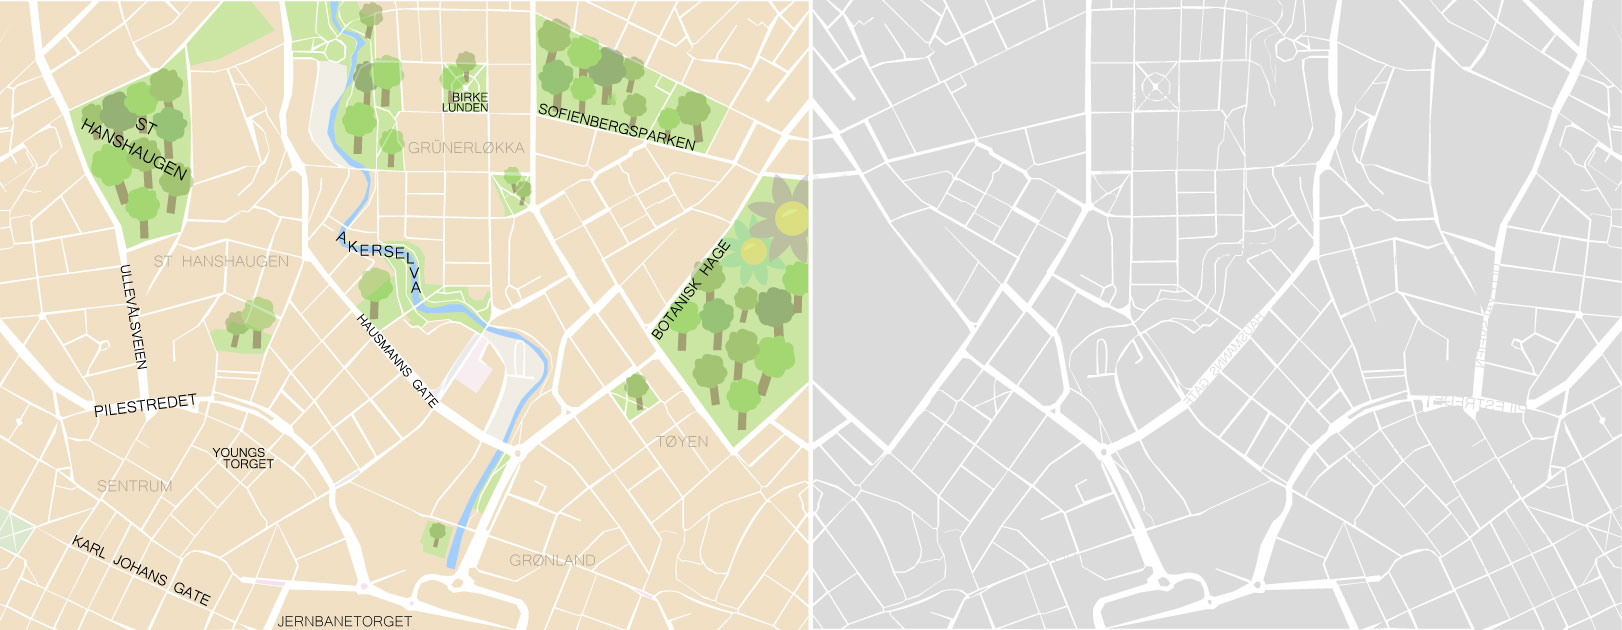
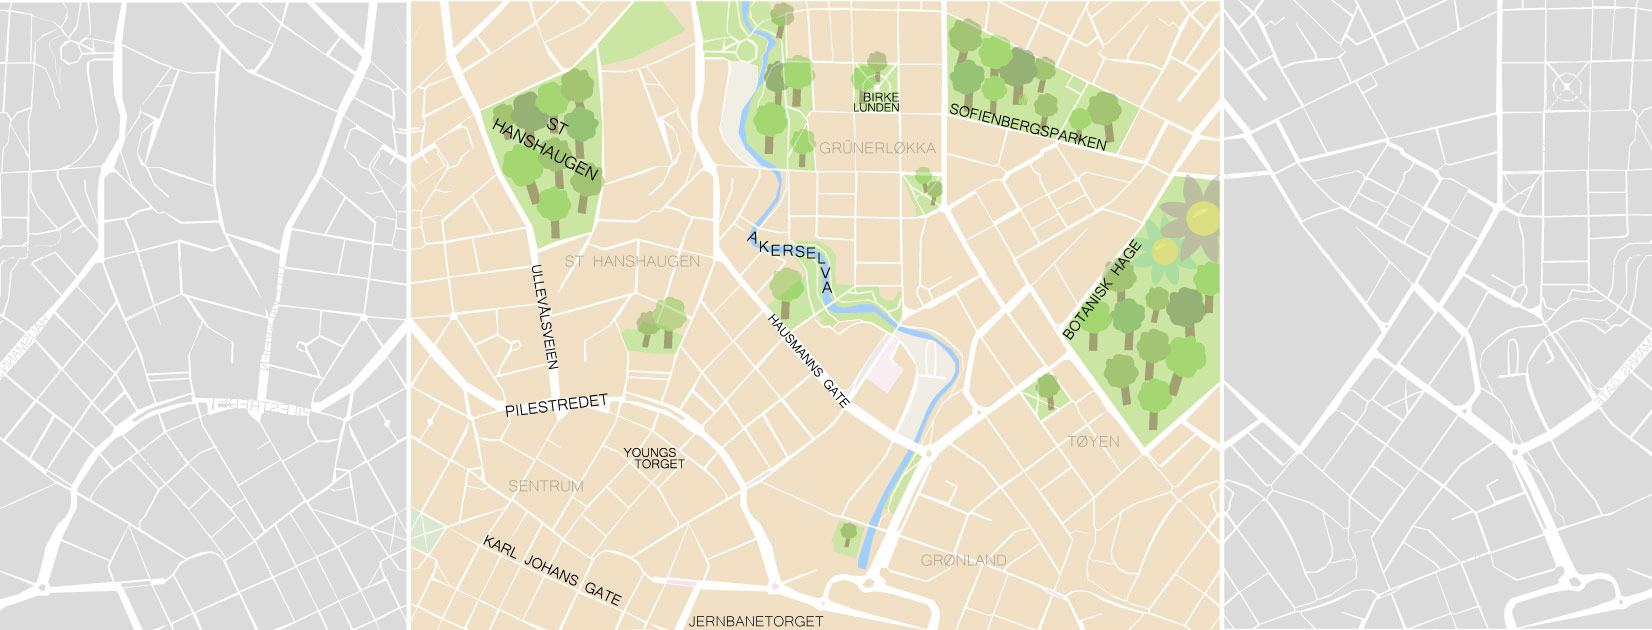
kartsida med ny kartbild

diff --git a/Template/css/custom.css b/Template/css/custom.css
@@ -53,9 +53,7 @@ body {
 .carousel-control {
     display: none;
 }
-#matsErScrub {
-    background-color: red;
-}
+
 
 /* Footer customization */
 
@@ -168,6 +166,8 @@ body {
     margin-bottom: 30px;
 }
 
+
+
 /*Map Page*/
 
 @media screen and (max-width: 991px) {
@@ -177,16 +177,25 @@ body {
         display: block;
         text-align: center;
     }
+
+    #scrollRight{
+        display: inline;
+    }
 }
 @media screen and (min-width: 992px) {
     #infoBar {
         min-height: 10%;
-        max-height: 650px;
+        max-height: 630px;
         overflow-y: auto;
         padding: 2%;
         left: 0;
         margin-top: 0;
         position: absolute;
+        width: 25%;
+    }
+    
+     #scrollRight{
+        display: none; 
     }
 }
 
@@ -195,6 +204,7 @@ body {
     background-color: lightgray;
     z-index: 10;
 }
+
 .box {
     width: 24px;
     height: 24px;
@@ -206,8 +216,7 @@ body {
 }
 
 #boxContainer{
-   left: -345px; 
-   top: 5px;
+   left: 70px; 
     position: absolute;
 }
 #boxContainer>* {
@@ -219,10 +228,11 @@ body {
     padding: 0;
     margin-bottom: 114px;
     overflow-x: scroll;
+    
 }
 #map {
-    min-width: 640px;
-    width: 105%;
+    max-width: 2000px;
+    width: 1650px;
     height: 630px;
     background-image:url(../pic/map.jpg);
     background-repeat: no-repeat;
@@ -433,12 +443,12 @@ body {
     left: 765px;
 }
 #m {
-    top: 495px;
-    left: 660px;
+    top: 500px;
+    left: 650px;
 }
 #n {
-    top: 510px;
-    left: 510px;
+    top: 520px;
+    left: 500px;
 }
 #o {
     top: 455px;

diff --git a/Template/map.php b/Template/map.php
@@ -19,6 +19,7 @@
 
         <!-- JavaScript / Jquery -->
         <script type="text/javascript">
+                    
             var currentZoom = 1.0;
 
             // Zooms in on map
@@ -63,6 +64,13 @@
                         $('.category' + (i + 1)).hide();
                 }
             }
+            
+            function scrollRight(){
+                        $('#mapContent').scrollLeft('600');
+      
+                
+            }
+            
         </script>
 
 </head>
@@ -99,7 +107,7 @@
 
                     <!-- Reset zoom button -->
                     <a id="zoomNormal" href="#" onclick="zoomReset()">
-                        <button type="button" class="btn"> Reset </button>
+                        <button type="button" class="btn"> - </button>
                     </a>
 
                     <!-- Category button -->
@@ -167,12 +175,18 @@
             <div id="infoBar">
                 <!-- Search box HTML -->
                 <br />
-                <form method="get">
+                <form style="display: inline;" method="get">
                     <label>
                         <input type="text" name="keywords" class="form-control" autocomplete="off">
-                    </label>
+                    </label><br>
                     <input type="submit" value="<?php echo $lang['MENU_SUBMIT']; ?>" class="btn btn-default">
                 </form>
+                
+                <form style="display: inline;" method="get">
+                    <input type="submit" name="reset" value="<?php echo $lang['MENU_RESET']; ?>" class="btn btn-default">
+                </form>
+                
+                    <button id="scrollRight" onclick="scrollRight()" class="btn btn-default"> Center map on mobile</button>
                 <br/>
 
                 <!-- Content Wrapper / Div with information about boxes. -->

diff --git a/Template/events/search_function.php b/Template/events/search_function.php
@@ -22,6 +22,9 @@
     <?php 
         $db = new mysqli('localhost', 'root', 'root', 'campusfjerdingen', 8889);
 
+        if(isset($_GET['reset'])){
+        }
+
         if(isset($_GET['keywords'])){
     
         $keywords = $db->escape_string($_GET['keywords']);
@@ -29,6 +32,7 @@
         SELECT *
         FROM location
         WHERE name LIKE '%{$keywords}%' OR category LIKE '%{$keywords}%'");  
+
     ?>
 
     <!-- Echoes number of results -->

diff --git a/Template/languages/lang.no.php b/Template/languages/lang.no.php
@@ -15,6 +15,7 @@ $lang['MENU_EVENTS'] = 'Eventer';
 $lang['MENU_CAMPUS'] = 'Campus';
 $lang['MENU_CONTACT'] = 'Kontakt';
 $lang['MENU_LANGUAGE'] = 'Språk';
+$lang['MENU_RESET'] = 'Återställ';
 
 // Homepage
 $lang['HOMEPAGE_FIRST_TITLE'] = 'Kart';

diff --git a/Template/languages/lang.en.php b/Template/languages/lang.en.php
@@ -17,6 +17,7 @@ $lang['MENU_CONTACT'] = 'Contact';
 $lang['MENU_LANGUAGE'] = 'Language';
 $lang['MENU_SEARCH'] = 'Search';
 $lang['MENU_SUBMIT'] = 'Submit';
+$lang['MENU_RESET'] = 'Reset';
 
 // Homepage
 $lang['HOMEPAGE_FIRST_TITLE'] = 'Map';

diff --git a/Template/connection.php b/Template/connection.php
@@ -1,7 +1,7 @@
 <?php 
 
     require 'vendor/autoload.php';
-    $port = 3307;
+    $port = 8889;
     $username = 'root';
     $password = 'root';
     $name = 'campusfjerdingen';
